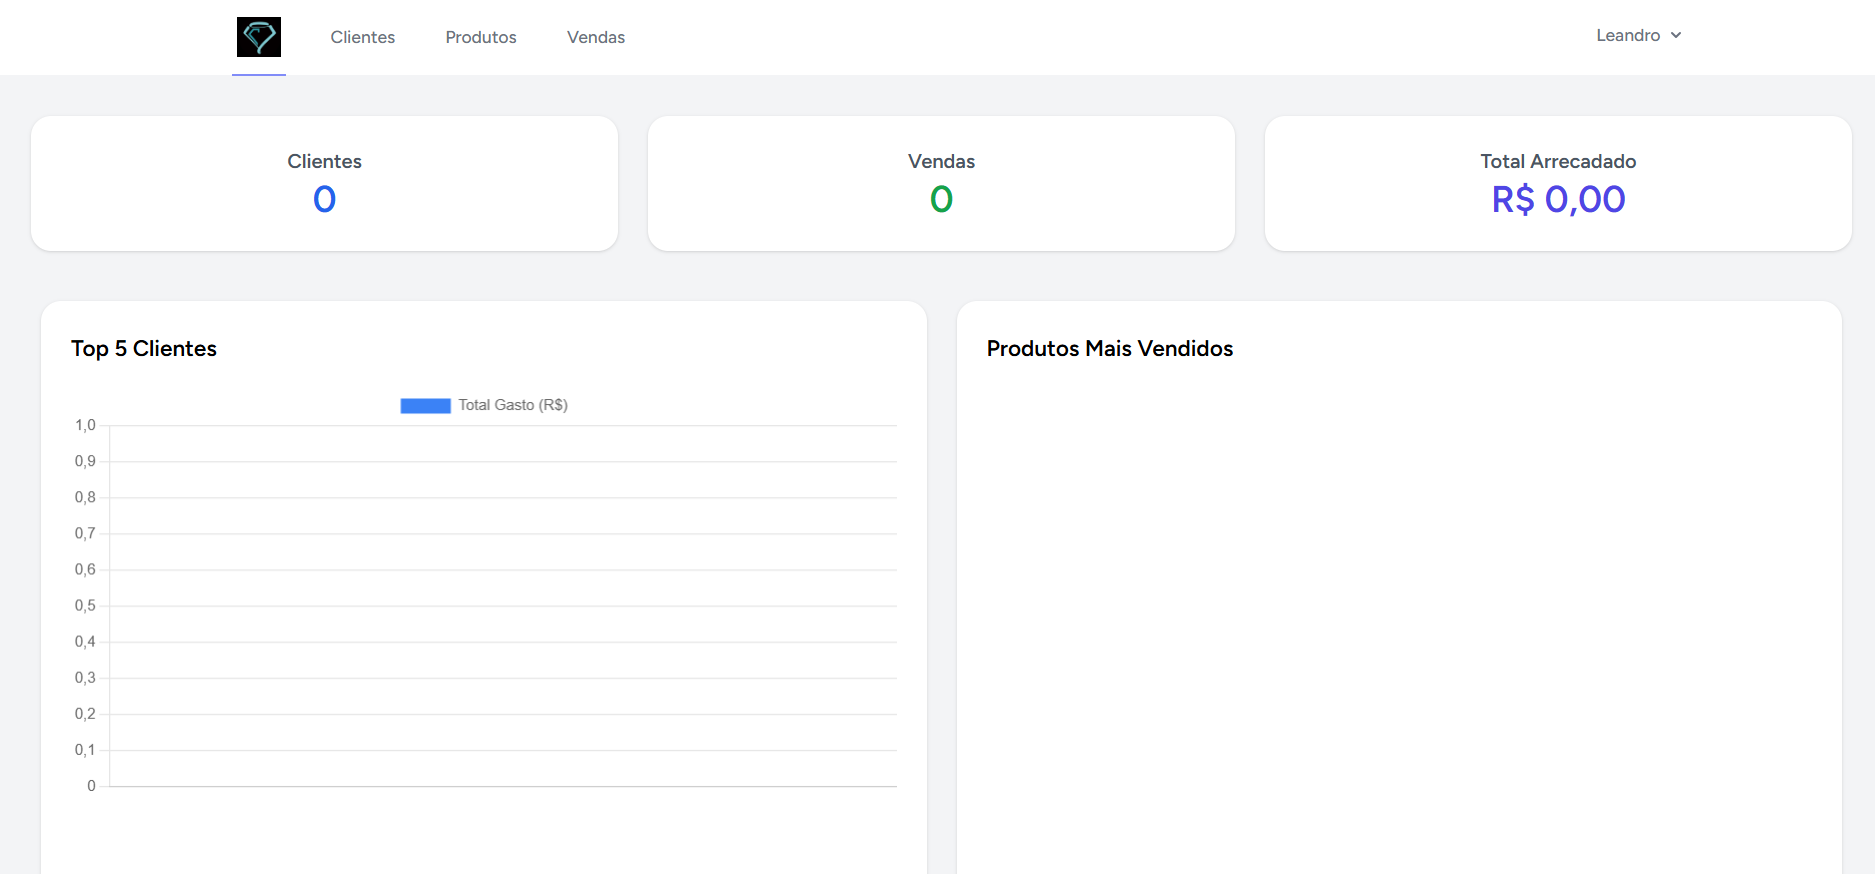
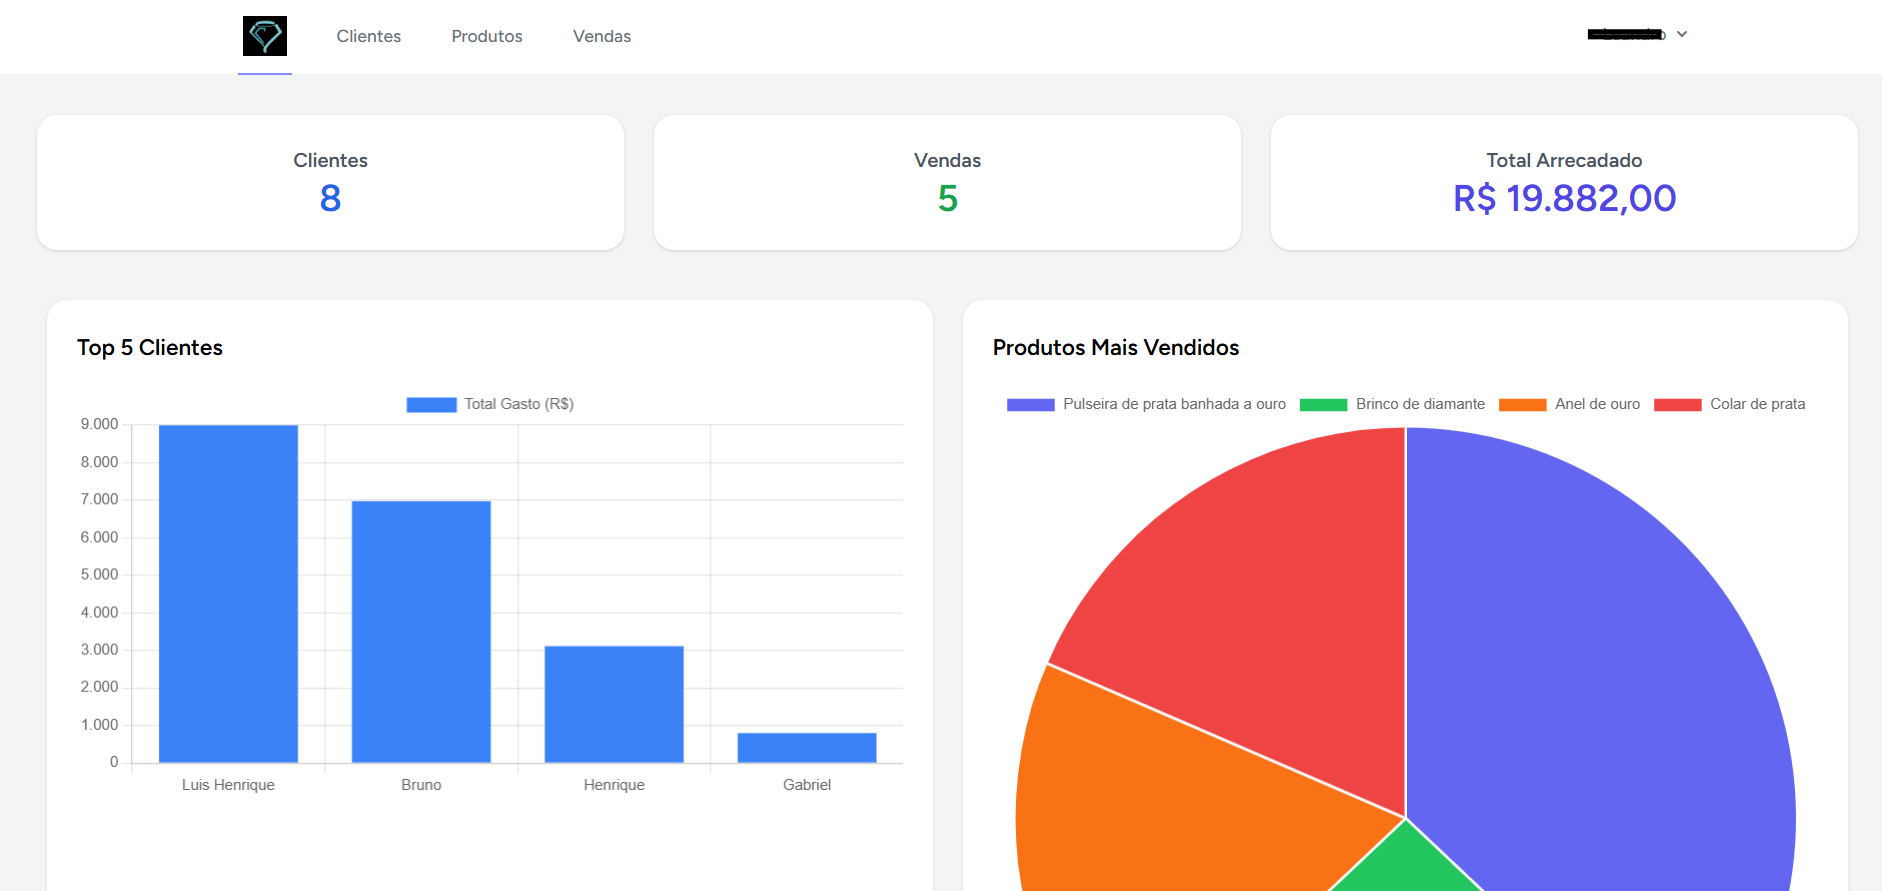
Visual

diff --git a/resources/views/welcome.blade.php b/resources/views/welcome.blade.php
@@ -16,24 +16,24 @@
 <body class="antialiased font-sans">
     <div class="bg-gray-50 text-black/50 dark:bg-black dark:text-white/50">
 
-        <div class="relative min-h-screen flex flex-col items-center justify-center selection:bg-[#FF2D20] selection:text-white">
-            
+        <div class="relative min-h-screen flex flex-col items-center justify-center selection:bg-[#FFFFFF] selection:text-white">
+
             <div class="relative w-full max-w-2xl px-6 lg:max-w-7xl">
-                
+
                 <header class="grid grid-cols-2 items-center gap-2 py-10 lg:grid-cols-3">
                     <div class="flex lg:justify-center lg:col-start-2">
                         <img src="{{ asset('favicon.png') }}" alt="Logo Chopinho" class="h-16 w-auto">
                     </div>
-                    
+
                     @if (Route::has('login'))
-                        <livewire:welcome.navigation />
+                    <livewire:welcome.navigation />
                     @endif
                 </header>
                 <main class="mt-6">
                     <div class="grid gap-6 lg:grid-cols-2 lg:gap-8">
                         <a
                             id="docs-card"
-                            class="flex flex-col items-start gap-6 overflow-hidden rounded-lg bg-white p-6 shadow-[0px_14px_34px_0px_rgba(0,0,0,0.08)] ring-1 ring-white/[0.05] transition duration-300 hover:text-black/70 hover:ring-black/20 focus:outline-none focus-visible:ring-[#FF2D20] md:row-span-3 lg:p-10 lg:pb-10 dark:bg-zinc-900 dark:ring-zinc-800 dark:hover:text-white/70 dark:hover:ring-zinc-700 dark:focus-visible:ring-[#FF2D20]">
+                            class="flex flex-col items-start gap-6 overflow-hidden rounded-lg bg-white p-6 shadow-[0px_14px_34px_0px_rgba(0,0,0,0.08)] ring-1 ring-white/[0.05] transition duration-300 hover:text-black/70 hover:ring-black/20 focus:outline-none focus-visible:ring-[#FFFFFF] md:row-span-3 lg:p-10 lg:pb-10 dark:bg-zinc-900 dark:ring-zinc-800 dark:hover:text-white/70 dark:hover:ring-zinc-700 dark:focus-visible:ring-[#FFFFFF]">
                             <div id="screenshot-container" class="relative flex w-full flex-1 items-stretch">
                                 <img
                                     src="{{ asset('favicon.png') }}"
@@ -48,39 +48,41 @@
                                 <img
                                     src="{{ asset('Printsistema.png') }}"
                                     alt="Printscreen do sistema Chopinho"
-                                    class="aspect-video h-full w-full flex-1 min-w-0 rounded-[10px]"> 
+                                    class="aspect-video h-full w-full flex-1 min-w-0 rounded-[10px]">
                                 <div
                                     class="absolute -bottom-16 -left-16 h-40 w-[calc(100%+8rem)] bg-gradient-to-b from-transparent via-white to-white dark:via-zinc-900 dark:to-zinc-900"></div>
                             </div>
 
                             <div class="relative flex items-center gap-6 lg:items-end">
                                 <div id="docs-card-content" class="flex items-start gap-6 lg:flex-col">
-                                    <div class="flex size-12 shrink-0 items-center justify-center rounded-full bg-[#FF2D20]/10 sm:size-16">
+                                    <div class="flex size-12 shrink-0 items-center justify-center rounded-full bg-[#FFFFFF]/10 sm:size-16">
                                         <svg class="size-5 sm:size-6" xmlns="http://www.w3.org/2000/svg" fill="none" viewBox="0 0 24 24">
-                                            <path fill="#20daffff" d="M23 4a1 1 0 0 0-1.447-.894L12.224 7.77a.5.5 0 0 1-.448 0L2.447 3.106A1 1 0 0 0 1 4v13.382a1.99 1.99 0 0 0 1.105 1.79l9.448 4.728c.14.065.293.1.447.1.154-.005.306-.04.447-.105l9.453-4.724a1.99 1.99 0 0 0 1.1-1.789V4ZM3 6.023a.25.25 0 0 1 .362-.223l7.5 3.75a.251.251 0 0 1 .138.223v11.2a.25.25 0 0 1-.362.224l-7.5-3.75a.25.25 0 0 1-.138-.22V6.023Zm18 11.2a.25.25 0 0 1-.138.224l-7.5 3.75a.249.249 0 0 1-.329-.099.249.249 0 0 1-.033-.12V9.772a.251.251 0 0 1 .138-.224l7.5-3.75a.25.25 0 0 1 .362.224v11.2Z" />
-                                            <path fill="#2093ffff" d="m3.55 1.893 8 4.048a1.008 1.008 0 0 0 .9 0l8-4.048a1 1 0 0 0-.9-1.785l-7.322 3.706a.506.506 0 0 1-.452 0L4.454.108a1 1 0 0 0-.9 1.785H3.55Z" />
+                                            <path fill="#20b8ffff" d="M23 4a1 1 0 0 0-1.447-.894L12.224 7.77a.5.5 0 0 1-.448 0L2.447 3.106A1 1 0 0 0 1 4v13.382a1.99 1.99 0 0 0 1.105 1.79l9.448 4.728c.14.065.293.1.447.1.154-.005.306-.04.447-.105l9.453-4.724a1.99 1.99 0 0 0 1.1-1.789V4ZM3 6.023a.25.25 0 0 1 .362-.223l7.5 3.75a.251.251 0 0 1 .138.223v11.2a.25.25 0 0 1-.362.224l-7.5-3.75a.25.25 0 0 1-.138-.22V6.023Zm18 11.2a.25.25 0 0 1-.138.224l-7.5 3.75a.249.249 0 0 1-.329-.099.249.249 0 0 1-.033-.12V9.772a.251.251 0 0 1 .138-.224l7.5-3.75a.25.25 0 0 1 .362.224v11.2Z" />
+                                            <path fill="#20b8ffff" d="m3.55 1.893 8 4.048a1.008 1.008 0 0 0 .9 0l8-4.048a1 1 0 0 0-.9-1.785l-7.322 3.706a.506.506 0 0 1-.452 0L4.454.108a1 1 0 0 0-.9 1.785H3.55Z" />
                                         </svg>
                                     </div>
 
                                     <div class="pt-3 sm:pt-5 lg:pt-0">
                                         <h2 class="text-xl font-semibold text-black dark:text-white">Dashboard interativo</h2>
                                         <p class="mt-4 text-sm/relaxed">
-                                            Acompanhe em tempo real todas as métricas, relatórios e estatísticas essenciais para o crescimento do seu negócio. Tenha acesso a informações detalhadas e atualizadas que permitem analisar o desempenho da sua empresa, identificar oportunidades de melhoria e tomar decisões estratégicas de forma mais assertiva e segura. Com dados claros e organizados, você garante maior controle sobre os resultados e potencializa suas chances de alcançar metas e objetivos com eficiência.
+                                            Acompanhe em tempo real todas as métricas e relatórios essenciais para o sucesso da sua joalheria.
+                                            Tenha uma visão completa do desempenho da empresa, identifique oportunidades de melhoria e tome decisões estratégicas com base em dados claros e atualizados.
+                                            Com informações organizadas e acessíveis, você garante mais controle sobre os resultados e conduz seu negócio rumo a novas conquistas.
                                         </p>
                                     </div>
                                 </div>
 
-                                <svg class="size-6 shrink-0 stroke-[#FF2D20]" xmlns="http://www.w3.org/2000/svg" fill="none" viewBox="0 0 24 24" stroke-width="1.5">
+                                <svg class="size-6 shrink-0 stroke-[#FFFFFF]" xmlns="http://www.w3.org/2000/svg" fill="none" viewBox="0 0 24 24" stroke-width="1.5">
                                     <path stroke-linecap="round" stroke-linejoin="round" d="M4.5 12h15m0 0l-6.75-6.75M19.5 12l-6.75 6.75" />
                                 </svg>
                             </div>
                         </a>
 
                         <a
-                            class="flex items-start gap-4 rounded-lg bg-white p-6 shadow-[0px_14px_34px_0px_rgba(0,0,0,0.08)] ring-1 ring-white/[0.05] transition duration-300 hover:text-black/70 hover:ring-black/20 focus:outline-none focus-visible:ring-[#FF2D20] lg:pb-10 dark:bg-zinc-900 dark:ring-zinc-800 dark:hover:text-white/70 dark:hover:ring-zinc-700 dark:focus-visible:ring-[#FF2D20]">
-                            <div class="flex size-12 shrink-0 items-center justify-center rounded-full bg-[#FF2D20]/10 sm:size-16">
+                            class="flex items-start gap-4 rounded-lg bg-white p-6 shadow-[0px_14px_34px_0px_rgba(0,0,0,0.08)] ring-1 ring-white/[0.05] transition duration-300 hover:text-black/70 hover:ring-black/20 focus:outline-none focus-visible:ring-[#FFFFFF] lg:pb-10 dark:bg-zinc-900 dark:ring-zinc-800 dark:hover:text-white/70 dark:hover:ring-zinc-700 dark:focus-visible:ring-[#FFFFFF]">
+                            <div class="flex size-12 shrink-0 items-center justify-center rounded-full bg-[#FFFFFF]/10 sm:size-16">
                                 <svg class="size-5 sm:size-6" xmlns="http://www.w3.org/2000/svg" fill="none" viewBox="0 0 24 24">
-                                    <g fill="#20a9ffff">
+                                    <g fill="#20b8ffff">
                                         <path d="M24 8.25a.5.5 0 0 0-.5-.5H.5a.5.5 0 0 0-.5.5v12a2.5 2.5 0 0 0 2.5 2.5h19a2.5 2.5 0 0 0 2.5-2.5v-12Zm-7.765 5.868a1.221 1.221 0 0 1 0 2.264l-6.626 2.776A1.153 1.153 0 0 1 8 18.123v-5.746a1.151 1.151 0 0 1 1.609-1.035l6.626 2.776ZM19.564 1.677a.25.25 0 0 0-.177-.427H15.6a.106.106 0 0 0-.072.03l-4.54 4.543a.25.25 0 0 0 .177.427h3.783c.027 0 .054-.01.073-.03l4.543-4.543ZM22.071 1.318a.047.047 0 0 0-.045.013l-4.492 4.492a.249.249 0 0 0 .038.385.25.25 0 0 0 .14.042h5.784a.5.5 0 0 0 .5-.5v-2a2.5 2.5 0 0 0-1.925-2.432ZM13.014 1.677a.25.25 0 0 0-.178-.427H9.101a.106.106 0 0 0-.073.03l-4.54 4.543a.25.25 0 0 0 .177.427H8.4a.106.106 0 0 0 .073-.03l4.54-4.543ZM6.513 1.677a.25.25 0 0 0-.177-.427H2.5A2.5 2.5 0 0 0 0 3.75v2a.5.5 0 0 0 .5.5h1.4a.106.106 0 0 0 .073-.03l4.54-4.543Z" />
                                     </g>
                                 </svg>
@@ -93,16 +95,16 @@
                                 </p>
                             </div>
 
-                            <svg class="size-6 shrink-0 self-center stroke-[#FF2D20]" xmlns="http://www.w3.org/2000/svg" fill="none" viewBox="0 0 24 24" stroke-width="1.5">
+                            <svg class="size-6 shrink-0 self-center stroke-[#FFFFFF]" xmlns="http://www.w3.org/2000/svg" fill="none" viewBox="0 0 24 24" stroke-width="1.5">
                                 <path stroke-linecap="round" stroke-linejoin="round" d="M4.5 12h15m0 0l-6.75-6.75M19.5 12l-6.75 6.75" />
                             </svg>
                         </a>
 
                         <a
-                            class="flex items-start gap-4 rounded-lg bg-white p-6 shadow-[0px_14px_34px_0px_rgba(0,0,0,0.08)] ring-1 ring-white/[0.05] transition duration-300 hover:text-black/70 hover:ring-black/20 focus:outline-none focus-visible:ring-[#FF2D20] lg:pb-10 dark:bg-zinc-900 dark:ring-zinc-800 dark:hover:text-white/70 dark:hover:ring-zinc-700 dark:focus-visible:ring-[#FF2D20]">
-                            <div class="flex size-12 shrink-0 items-center justify-center rounded-full bg-[#FF2D20]/10 sm:size-16">
+                            class="flex items-start gap-4 rounded-lg bg-white p-6 shadow-[0px_14px_34px_0px_rgba(0,0,0,0.08)] ring-1 ring-white/[0.05] transition duration-300 hover:text-black/70 hover:ring-black/20 focus:outline-none focus-visible:ring-[#FFFFFF] lg:pb-10 dark:bg-zinc-900 dark:ring-zinc-800 dark:hover:text-white/70 dark:hover:ring-zinc-700 dark:focus-visible:ring-[#FFFFFF]">
+                            <div class="flex size-12 shrink-0 items-center justify-center rounded-full bg-[#FFFFFF]/10 sm:size-16">
                                 <svg class="size-5 sm:size-6" xmlns="http://www.w3.org/2000/svg" fill="none" viewBox="0 0 24 24">
-                                    <g fill="#20b5ffff">
+                                    <g fill="#20b8ffff">
                                         <path d="M8.75 4.5H5.5c-.69 0-1.25.56-1.25 1.25v4.75c0 .69.56 1.25 1.25 1.25h3.25c.69 0 1.25-.56 1.25-1.25V5.75c0-.69-.56-1.25-1.25-1.25Z" />
                                         <path d="M24 10a3 3 0 0 0-3-3h-2V2.5a2 2 0 0 0-2-2H2a2 2 0 0 0-2 2V20a3.5 3.5 0 0 0 3.5 3.5h17A3.5 3.5 0 0 0 24 20V10ZM3.5 21.5A1.5 1.5 0 0 1 2 20V3a.5.5 0 0 1 .5-.5h14a.5.5 0 0 1 .5.5v17c0 .295.037.588.11.874a.5.5 0 0 1-.484.625L3.5 21.5ZM22 20a1.5 1.5 0 1 1-3 0V9.5a.5.5 0 0 1 .5-.5H21a1 1 0 0 1 1 1v10Z" />
                                         <path d="M12.751 6.047h2a.75.75 0 0 1 .75.75v.5a.75.75 0 0 1-.75.75h-2A.75.75 0 0 1 12 7.3v-.5a.75.75 0 0 1 .751-.753ZM12.751 10.047h2a.75.75 0 0 1 .75.75v.5a.75.75 0 0 1-.75.75h-2A.75.75 0 0 1 12 11.3v-.5a.75.75 0 0 1 .751-.753ZM4.751 14.047h10a.75.75 0 0 1 .75.75v.5a.75.75 0 0 1-.75.75h-10A.75.75 0 0 1 4 15.3v-.5a.75.75 0 0 1 .751-.753ZM4.75 18.047h7.5a.75.75 0 0 1 .75.75v.5a.75.75 0 0 1-.75.75h-7.5A.75.75 0 0 1 4 19.3v-.5a.75.75 0 0 1 .75-.753Z" />
@@ -117,13 +119,13 @@
                                 </p>
                             </div>
 
-                            <svg class="size-6 shrink-0 self-center stroke-[#FF2D20]" xmlns="http://www.w3.org/2000/svg" fill="none" viewBox="0 0 24 24" stroke-width="1.5">
+                            <svg class="size-6 shrink-0 self-center stroke-[#FFFFFF]" xmlns="http://www.w3.org/2000/svg" fill="none" viewBox="0 0 24 24" stroke-width="1.5">
                                 <path stroke-linecap="round" stroke-linejoin="round" d="M4.5 12h15m0 0l-6.75-6.75M19.5 12l-6.75 6.75" />
                             </svg>
                         </a>
 
                         <div class="flex items-start gap-4 rounded-lg bg-white p-6 shadow-[0px_14px_34px_0px_rgba(0,0,0,0.08)] ring-1 ring-white/[0.05] lg:pb-10 dark:bg-zinc-900 dark:ring-zinc-800">
-                            <div class="flex size-12 shrink-0 items-center justify-center rounded-full bg-[#FF2D20]/10 sm:size-16">
+                            <div class="flex size-12 shrink-0 items-center justify-center rounded-full bg-[#FFFFFF]/10 sm:size-16">
                                 <svg class="size-5 sm:size-6" xmlns="http://www.w3.org/2000/svg" fill="none" viewBox="0 0 24 24">
                                     <g fill="#20b8ffff">
                                         <path
@@ -142,12 +144,12 @@
                     </div>
                 </main>
                 <footer class="py-16 text-center text-sm text-black dark:text-white/70">
-                    SSystem 2025
+                    3° período do curso de Sistemas de Informação da Universidade Estadual de Montes Claros, 2025.
                 </footer>
-                
-            </div>
+
             </div>
         </div>
-    </body>
+    </div>
+</body>
 
 </html>

diff --git a/resources/views/livewire/layout/navigation.blade.php b/resources/views/livewire/layout/navigation.blade.php
@@ -16,7 +16,7 @@ new class extends Component
     }
 }; ?>
 
-<nav x-data="{ open: false }" class="bg-white border-b border-gray-100">
+<nav x-data="{ open: false }" class="bg-white-300 border-b border-white-100">
     <!-- Primary Navigation Menu -->
     <div class="max-w-7xl mx-auto px-4 sm:px-6 lg:px-8">
         <div class="flex justify-between h-16">
@@ -44,7 +44,7 @@ new class extends Component
             <div class="hidden sm:flex sm:items-center sm:ms-6">
                 <x-dropdown align="right" width="48">
                     <x-slot name="trigger">
-                        <button class="inline-flex items-center px-3 py-2 border border-transparent text-sm leading-4 font-medium rounded-md text-gray-500 bg-white hover:text-gray-700 focus:outline-none transition ease-in-out duration-150">
+                        <button class="inline-flex items-center px-3 py-2 border border-transparent text-sm leading-4 font-medium rounded-md text-white bg-black hover:text-white focus:outline-none transition ease-in-out duration-150">
                             <div x-data="{{ json_encode(['name' => auth()->user()->name]) }}" x-text="name" x-on:profile-updated.window="name = $event.detail.name"></div>
 
                             <div class="ms-1">
@@ -76,7 +76,7 @@ new class extends Component
 
             <!-- Hamburger -->
             <div class="-me-2 flex items-center sm:hidden">
-                <button @click="open = ! open" class="inline-flex items-center justify-center p-2 rounded-md text-gray-400 hover:text-gray-500 hover:bg-gray-100 focus:outline-none focus:bg-gray-100 focus:text-gray-500 transition duration-150 ease-in-out">
+                <button @click="open = ! open" class="inline-flex items-center justify-center p-2 rounded-md text-white-400 hover:text-white-500 hover:bg-white-100 focus:outline-none focus:bg-white-100 focus:text-white-500 transition duration-150 ease-in-out">
                     <svg class="h-6 w-6" stroke="currentColor" fill="none" viewBox="0 0 24 24">
                         <path :class="{'hidden': open, 'inline-flex': ! open }" class="inline-flex" stroke-linecap="round" stroke-linejoin="round" stroke-width="2" d="M4 6h16M4 12h16M4 18h16" />
                         <path :class="{'hidden': ! open, 'inline-flex': open }" class="hidden" stroke-linecap="round" stroke-linejoin="round" stroke-width="2" d="M6 18L18 6M6 6l12 12" />
@@ -95,10 +95,10 @@ new class extends Component
         </div>
 
         <!-- Responsive Settings Options -->
-        <div class="pt-4 pb-1 border-t border-gray-200">
+        <div class="pt-4 pb-1 border-t border-white-200">
             <div class="px-4">
-                <div class="font-medium text-base text-gray-800" x-data="{{ json_encode(['name' => auth()->user()->name]) }}" x-text="name" x-on:profile-updated.window="name = $event.detail.name"></div>
-                <div class="font-medium text-sm text-gray-500">{{ auth()->user()->email }}</div>
+                <div class="font-medium text-base text-white-800" x-data="{{ json_encode(['name' => auth()->user()->name]) }}" x-text="name" x-on:profile-updated.window="name = $event.detail.name"></div>
+                <div class="font-medium text-sm text-white-500">{{ auth()->user()->email }}</div>
             </div>
 
             <div class="mt-3 space-y-1">

diff --git a/database/seeders/ProductSeeder.php b/database/seeders/ProductSeeder.php
@@ -10,33 +10,33 @@ class ProductSeeder extends Seeder
     public function run(): void
     {
         Product::create([
-            'name' => 'Cadeira Gamer',
+            'name' => 'Anel de ouro',
             'price' => 799.90,
-            'description' => 'Cadeira ergonômica com apoio ajustável.'
+            'description' => 'Anel de ouro'
         ]);
 
         Product::create([
-            'name' => 'Notebook Dell',
+            'name' => 'Corrente de ouro',
             'price' => 3599.00,
-            'description' => 'Notebook Dell com processador i7 e 16GB RAM.'
+            'description' => 'Corrente'
         ]);
 
         Product::create([
-            'name' => 'Teclado Mecânico',
+            'name' => 'Brinco de diamante',
             'price' => 299.00,
-            'description' => 'Teclado mecânico branco.'
+            'description' => 'Brinco de diamante'
         ]);
 
         Product::create([
-            'name' => 'Mouse Gamer',
+            'name' => 'Colar de prata',
             'price' => 159.90,
-            'description' => 'Mouse gamer com alta precisão.'
+            'description' => 'Colar de prata'
         ]);
 
         Product::create([
-            'name' => 'Monitor 27"',
+            'name' => 'Pulseira de prata banhada a ouro"',
             'price' => 1299.00,
-            'description' => 'Monitor 27" Full HD com 144Hz.'
+            'description' => 'Pulseira banhada a ouro'
         ]);
     }
 }

diff --git a/resources/views/components/nav-link.blade.php b/resources/views/components/nav-link.blade.php
@@ -2,8 +2,11 @@
 
 @php
 $classes = ($active ?? false)
-            ? 'inline-flex items-center px-1 pt-1 border-b-2 border-indigo-400 text-sm font-medium leading-5 text-gray-900 focus:outline-none focus:border-indigo-700 transition duration-150 ease-in-out'
-            : 'inline-flex items-center px-1 pt-1 border-b-2 border-transparent text-sm font-medium leading-5 text-gray-500 hover:text-gray-700 hover:border-gray-300 focus:outline-none focus:text-gray-700 focus:border-gray-300 transition duration-150 ease-in-out';
+            // Estado ATIVO (página atual): Texto branco e borda colorida
+            ? 'inline-flex items-center px-1 pt-1 border-b-2 border-indigo-400 text-sm font-medium leading-5 text-white focus:outline-none focus:border-indigo-700 transition duration-150 ease-in-out'
+            
+            // Estado PADRÃO (outros links): Texto cinza-claro, fica branco ao passar o mouse
+            : 'inline-flex items-center px-1 pt-1 border-b-2 border-transparent text-sm font-medium leading-5 text-gray-300 hover:text-white hover:border-gray-300 focus:outline-none focus:text-white focus:border-gray-300 transition duration-150 ease-in-out';
 @endphp
 
 <a {{ $attributes->merge(['class' => $classes]) }}>

diff --git a/resources/views/layouts/app.blade.php b/resources/views/layouts/app.blade.php
@@ -18,7 +18,7 @@
         @livewireStyles
     </head>
     <body class="font-sans antialiased">
-        <div class="min-h-screen bg-gray-100">
+        <div class="min-h-screen bg-black">
             <livewire:layout.navigation />
 
             <!-- Page Heading -->
